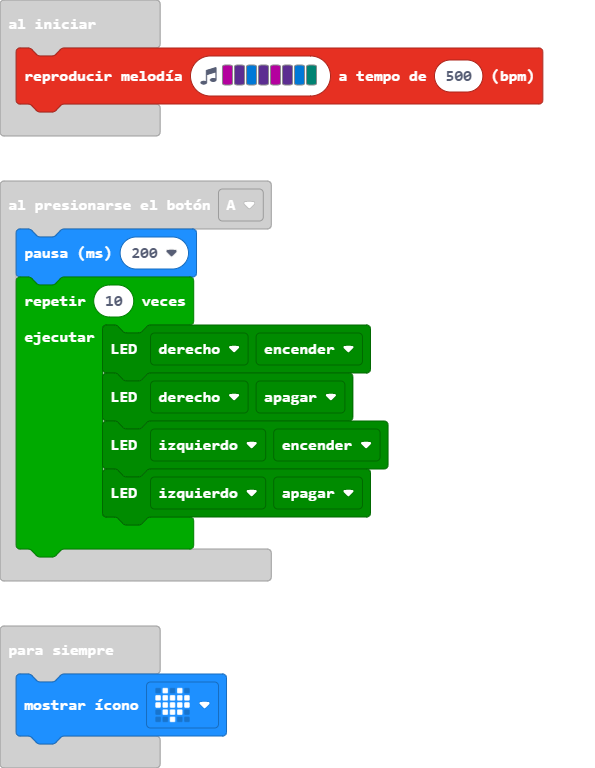
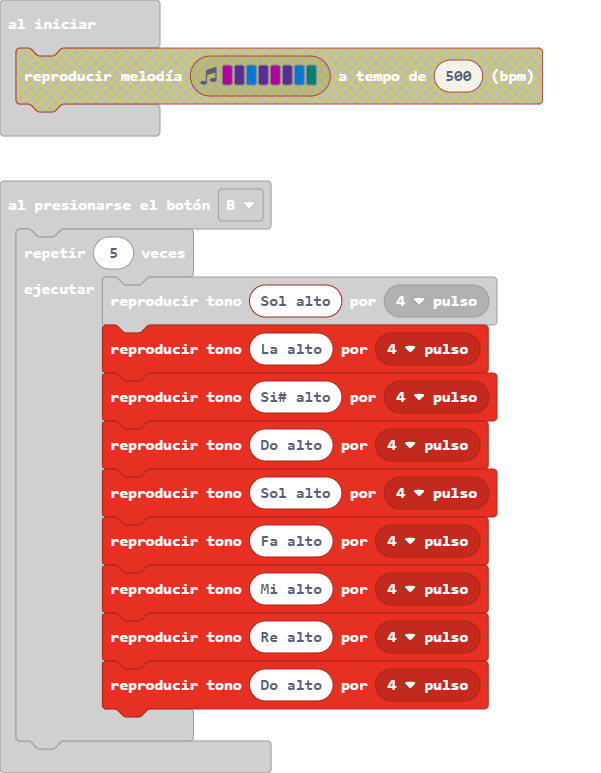
Actualizar main.blocks, main.ts

diff --git a/main.ts b/main.ts
@@ -12,10 +12,17 @@ input.onButtonPressed(Button.A, function () {
 })
 input.onButtonPressed(Button.B, function () {
     for (let index = 0; index < 5; index++) {
+        music.playTone(784, music.beat(BeatFraction.Breve))
         music.playTone(880, music.beat(BeatFraction.Breve))
+        music.playTone(988, music.beat(BeatFraction.Breve))
+        music.playTone(523, music.beat(BeatFraction.Breve))
+        music.playTone(784, music.beat(BeatFraction.Breve))
+        music.playTone(698, music.beat(BeatFraction.Breve))
+        music.playTone(659, music.beat(BeatFraction.Breve))
+        music.playTone(587, music.beat(BeatFraction.Breve))
+        music.playTone(523, music.beat(BeatFraction.Breve))
     }
 })
-music.playMelody("C D E D C D E F ", 500)
 basic.forever(function () {
     basic.showIcon(IconNames.Heart)
 })
